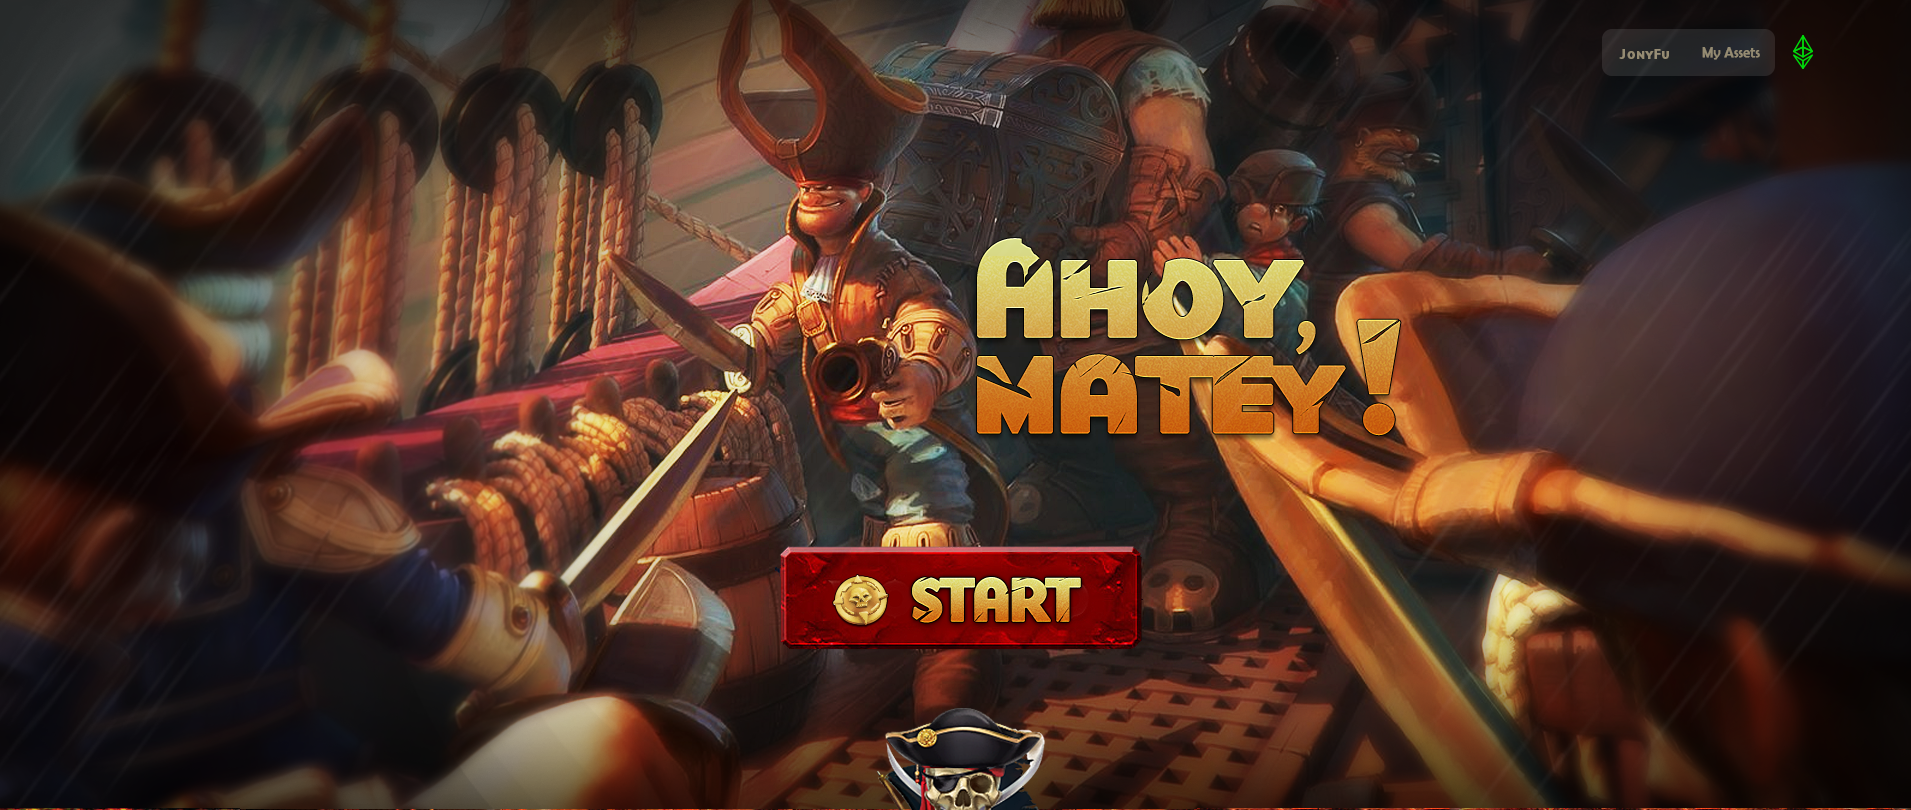
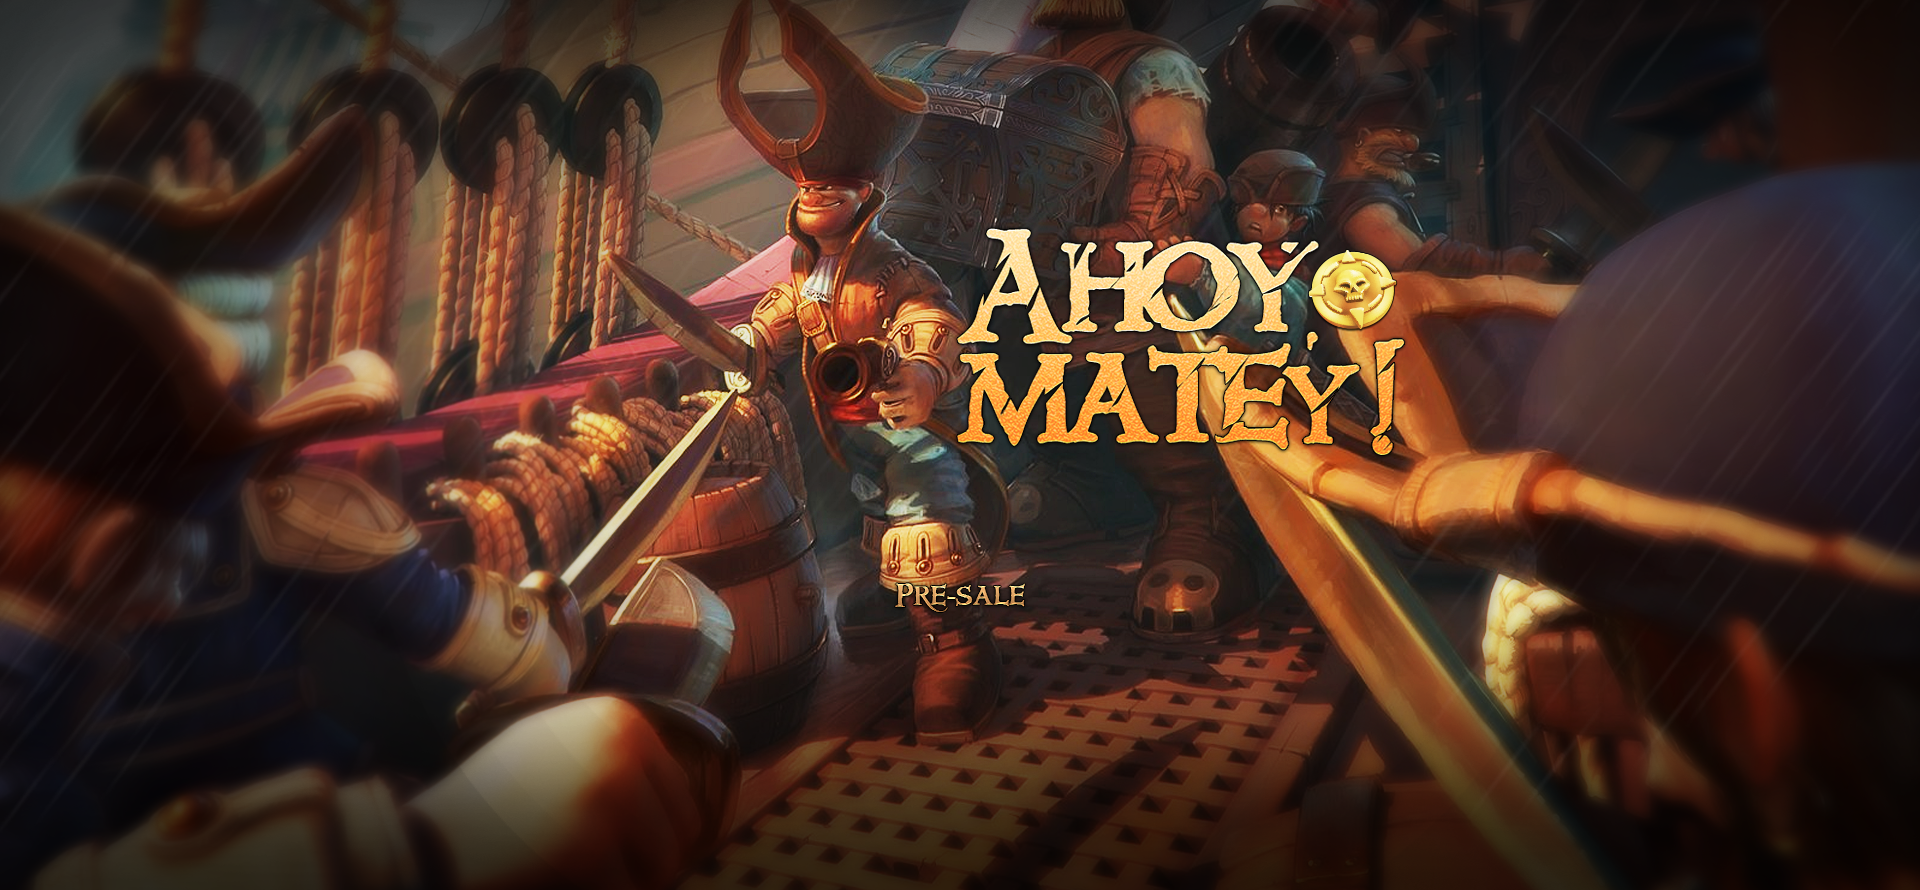
5.23海盗重新布局

diff --git a/pirate-pro/src/components/template/HeaderBanner.vue b/pirate-pro/src/components/template/HeaderBanner.vue
@@ -1,19 +1,11 @@
 <template>
   <div class="header-banner" :style="{'height':topheight}">
-    <div class="topbanner" :style="{'height':topbannerheight}">
-      <div class="addbox"></div>
-      <div class="startbtn"></div>
-      <div class="addbox"></div>
-    </div>
+    <div class="topright"></div>
+    <div class="startbtn"></div>
     <div class="topnav" :style="{'height':topnavheight}">
       <ul class="navul">
-        <li><router-link to="tabhome"></router-link></li>
-        <li><router-link to="tabchannel1"></router-link></li>
-        <li><router-link to="tabchannel2"></router-link></li>      
-        <li><router-link to="tabchannel3"></router-link></li>
-        <li><router-link to="tabchannel4"></router-link></li>
-        <li><router-link to="tabchannel4"></router-link></li>
-        <li><router-link to="tabchannel4"></router-link></li>            
+        <li><router-link to="presale"></router-link></li>
+        <li><router-link to="introduction"></router-link></li>           
       </ul>
     </div>
   </div>
@@ -26,8 +18,7 @@ export default {
     return {
       msg: 'HeaderBanner',
       topheight: document.documentElement.clientWidth/1920*890 + "px",
-      topbannerheight: document.documentElement.clientWidth/1920*810 + "px",
-      topnavheight: document.documentElement.clientWidth/1920*80 + "px",
+      topnavheight: document.documentElement.clientWidth/1920*118 + "px",
       screenwidth: document.documentElement.clientWidth
     }
   },
@@ -36,9 +27,7 @@ export default {
     window.addEventListener("resize",function(){
       var val = document.documentElement.clientWidth;
       _this.topheight = parseInt(val) / 1920 * 890 + "px";
-      _this.topbannerheight = parseInt(val) / 1920 * 810 + "px";
-      _this.topnavheight = parseInt(val) / 1920 * (890 - 810) + "px";
-      console.log("topbannerheight",val);
+      _this.topnavheight = parseInt(val) / 1920 * 118 + "px";
     })
   },
   watch: {
@@ -52,49 +41,48 @@ export default {
   .header-banner{
     width: 100%;
     color: #fff;
-  }
-  .topbanner{
-    width: 100%;
-    border-top: 1px solid transparent;
-    margin-top: -1px;
-    background: url("../../assets/topbanner.png") left top no-repeat;
+    background:url("../../assets/topbanner.png") center center no-repeat;
     background-size: 100% 100%;
-    color: #fff;
   }
-  .topnav{   
+  .topright{
+    width: 15.89%;
+    height: 9%;
+    float: right;
+    background:url("../../assets/moresetting.png") center center no-repeat;
+    background-size: 100% 100%;
+  }
+  .startbtn{
+    width: 13.54%;
+    height: 9.67%;
+    margin: 0 auto;
+    position: relative;
+    top: 69.74%;
+    background: url("../../assets/topbtn.png") center center no-repeat;
+    background-size: 100% 100%;
+  }
+  .topnav{ 
+    width:76.88%;
+    margin: 0 auto;   
     background: url("../../assets/topnav.png") left top no-repeat;
     background-size: 100% 100%;
+    position: relative;
+    top: 81%;
   }
   .navul{
-      width: 69.1%;
+      width: 100%;
       height: 100%;
       padding: 0;
-      margin: 0 auto;      
+      margin: 0;      
   }
   .navul li{
     float:left;
-    width: 14.28%;
+    width: 50%;
     height: 100%;
-    background: rgba(255,255,255,.3);
   }
   .navul li>a{
     width: 100%;
     height: 100%;
     display: block;
   }
-  .addbox{
-    width: 40.57%;
-    height: 12.89%;
-    float: left;
-    position: relative;
-    top: 67.53%;
-  }
-  .startbtn{
-    width: 18.85%;
-    height: 12.89%;
-    float: left;
-    margin: 0;
-    position: relative;
-    top: 67.53%;
-  }
+  
 </style>

diff --git a/pirate-pro/src/components/template/Presale.vue b/pirate-pro/src/components/template/Presale.vue
@@ -1,0 +1,94 @@
+<template>
+  <div class="tab-presale">
+    <div class="players" :style="{'height':playersheight}">
+      {{msg}}
+      <div class="pretitle"></div>
+      <ul class="preplayer">
+        <li></li><li></li><li></li>
+      </ul>
+      <ul class="prebtn">
+        <li></li><li></li><li></li>
+      </ul>
+  </div>
+  </div>
+</template>
+
+<script>
+export default {
+  name: 'Presale',
+  data () {
+    return {
+      msg: this.$t("message.tabhome"),
+      playersheight: document.documentElement.clientWidth/ 1920 * 950 + "px"
+    }
+  },
+  created:function(){
+    
+  },
+  mounted:function(){
+    var _this = this;
+    window.addEventListener("resize",function(){
+      var val = document.documentElement.clientWidth;
+      _this.playersheight = val / 1920 * 950 + "px";
+    })
+  }
+}
+</script>
+
+<!-- Add "scoped" attribute to limit CSS to this component only -->
+<style scoped>
+.tab-presale{
+  width: 100%;
+  height: auto;
+  color: #fff;
+}
+.players{
+  width: 100%;
+  background: url("../../assets/presale.png") left top no-repeat;
+  background-size: 100% 100%;
+}
+.pretitle{
+  width: 38%;
+  height: 22.1%;
+  margin: 0 auto;
+  background:url("../../assets/pretitle.png") center center no-repeat;
+  background-size: 100% 100%; 
+}
+.preplayer,.prebtn{
+  width:66.25%;
+  height: 57.37%;
+  margin: 0 auto; 
+}
+.preplayer li,.prebtn li{
+  width: 33.33%;
+  height: 100%;
+  float: left;
+}
+.preplayer li:nth-child(1){
+  background:url("../../assets/player1.png");
+  background-size: 100% 100%; 
+}
+.preplayer li:nth-child(2){
+  background:url("../../assets/player2.png");
+  background-size: 100% 100%; 
+}
+.preplayer li:nth-child(3){
+  background:url("../../assets/player3.png");
+  background-size: 100% 100%; 
+}
+.prebtn{
+  height: 16.31%;
+}
+.prebtn li:nth-child(1){
+  background:url("../../assets/player1b.png");
+  background-size: 100% 100%; 
+}
+.prebtn li:nth-child(2){
+  background:url("../../assets/player2b.png");
+  background-size: 100% 100%; 
+}
+.prebtn li:nth-child(3){
+  background:url("../../assets/player3b.png");
+  background-size: 100% 100%; 
+}
+</style>

diff --git a/pirate-pro/src/components/template/FooterBar.vue b/pirate-pro/src/components/template/FooterBar.vue
@@ -25,7 +25,7 @@ export default {
   data () {
     return {
       msg: 'FooterBar',
-      footerHeight: document.documentElement.clientWidth / 1920 * 500 + "px"
+      footerHeight: document.documentElement.clientWidth / 1920 * 360 + "px"
     }
   },
   mounted:function(){
@@ -33,7 +33,7 @@ export default {
     window.addEventListener("resize",function(){
       var val = document.documentElement.clientWidth;
       console.log("footerHeight",val);
-      _this.footerHeight = val / 1920 * 500 + "px";
+      _this.footerHeight = val / 1920 * 360 + "px";
     })
     
   }
@@ -44,36 +44,45 @@ export default {
 <style scoped>
 .footer-bar{
   width: 100%;
-  background:url("../../assets/footer.png") left top no-repeat;
-  background-size: 100% 100%;
+  background:#000;
   color: #fff;
 }
 .topfooter{
   width: 100%;
-  height: 86.5%;
+  height: 72.22%;
 }
 .botfooter{
   width: 100%;
-  height: 14.5%;
+  height: 27.78%;
 }
 ul{
-  width: 8.4%;
   height: 100%;
   float: left;
-  border: 1px solid blue;
 }
 .list1{
-  margin-left: 20.3%;
+  width:30.6%;
+  background: url("../../assets/footer1.png") center center no-repeat;
+  background-size: cover;
 }
 .list2{
-  margin-left:4%;
+  width: 15.6%;
+  background: url("../../assets/footer2.png") center center no-repeat;
+  background-size: cover;
 }
-.list1>li{
+.list3{
+  width: 20.1%;
+  background: url("../../assets/footer3.png") center center no-repeat;
+  background-size: cover;
+}
+.list4{
+  width: 33.7%;
+  background: url("../../assets/footer4.png") center center no-repeat;
+  background-size: cover;
+}
+.botfooter{
   width: 100%;
-  height: 7%;
-  border: 1px solid red;
-}
-.list1>li:nth-child(1){
-  height: 50%;
+  height: 27.77%;
+  background:url("../../assets/footer5.png") center center no-repeat;
+  background-size: cover; 
 }
 </style>

diff --git a/pirate-pro/src/router/index.js b/pirate-pro/src/router/index.js
@@ -1,12 +1,7 @@
 import Vue from 'vue'
 import Router from 'vue-router'
-import TabHome from '@/components/template/TabHome'
-import TabChannel1 from '@/components/template/TabChannel1'
-import TabChannel2 from '@/components/template/TabChannel2'
-import TabChannel3 from '@/components/template/TabChannel3'
-import TabChannel4 from '@/components/template/TabChannel4'
-
-
+import Presale from '@/components/template/Presale'
+import Introduction from '@/components/template/Introduction'
 
 Vue.use(Router)
 
@@ -15,32 +10,17 @@ export default new Router({
     {
 		path: '/',
 		name: 'HomePage',  
-		component:TabHome
+		component:Presale
     },
     {
-		path: '/tabhome',
-    	name: 'TabHome',
-    	component:TabHome
+		path: '/presale',
+    	name: 'presale',
+    	component:Presale
     },
     {
-		path: '/tabchannel1',
-    	name: 'TabChannel1',
-    	component:TabChannel1
-    },
-    {
-		path: '/tabchannel2',
-    	name: 'TabChannel2',
-    	component:TabChannel2
-    },
-    {
-		path: '/tabchannel3',
-    	name: 'TabChannel3',
-    	component:TabChannel3
-    },
-    {
-		path: '/tabchannel4',
-    	name: 'TabChannel4',
-    	component:TabChannel4
+		path: '/introduction',
+    	name: 'introduction',
+    	component:Introduction
     }
   ]
 })

diff --git a/pirate-pro/src/components/template/Introduction.vue b/pirate-pro/src/components/template/Introduction.vue
@@ -1,0 +1,42 @@
+<template>
+  <div class="tab-introduction">
+    <div class="introduce" :style="{'height':introduceheight}">{{msg}}</div>
+  </div>
+</template>
+
+<script>
+export default {
+  name: 'Introduction',
+  data () {
+    return {
+      msg: '我是详情介绍',
+      introduceheight: document.documentElement.clientWidth/ 1920 * 760 + "px"
+    }
+  },
+  created:function(){
+    
+  },
+  mounted () {
+    var _this = this;
+    window.addEventListener("resize",function(){
+      var val = document.documentElement.clientWidth;
+      _this.introduceheight = val / 1920 * 760 + "px";
+    })
+  }
+}
+</script>
+
+<!-- Add "scoped" attribute to limit CSS to this component only -->
+<style scoped>
+.tab-introduction{
+  width: 100%;
+  height: auto;
+  background: #09b6f2;
+  color: #333;
+}
+.introduce{
+  width: 100%;
+  background: url("../../assets/introduce.png") left top no-repeat;
+  background-size: cover;
+}
+</style>
